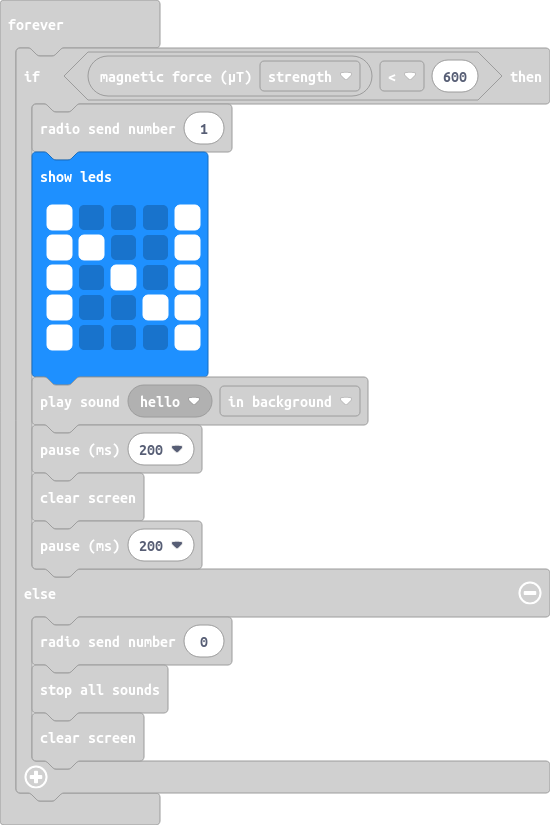
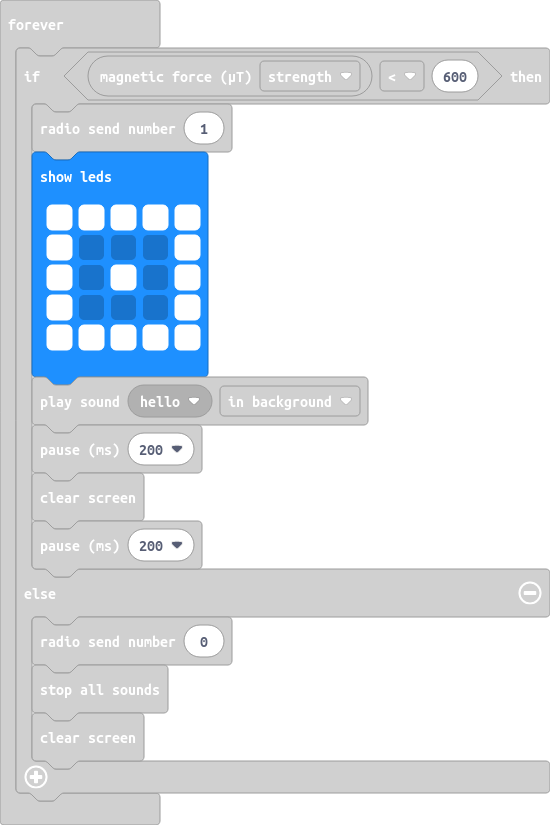
Update main.blocks, main.ts

Changed region(s): [[0.1236, 0.2424, 0.3091, 0.3333], [0.1236, 0.3333, 0.3091, 0.4242]]

diff --git a/main.ts b/main.ts
@@ -4,11 +4,11 @@ basic.forever(function () {
     if (input.magneticForce(Dimension.Strength) < 600) {
         radio.sendNumber(1)
         basic.showLeds(`
+            # # # # #
             # . . . #
-            # # . . #
             # . # . #
-            # . . # #
             # . . . #
+            # # # # #
             `)
         music.playSoundEffect(music.builtinSoundEffect(soundExpression.hello), SoundExpressionPlayMode.InBackground)
         basic.pause(200)
